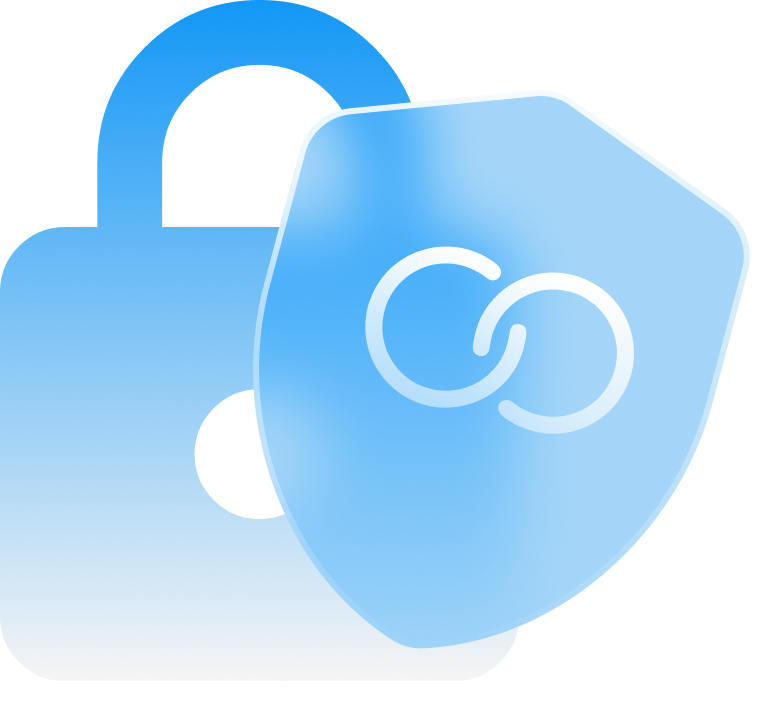
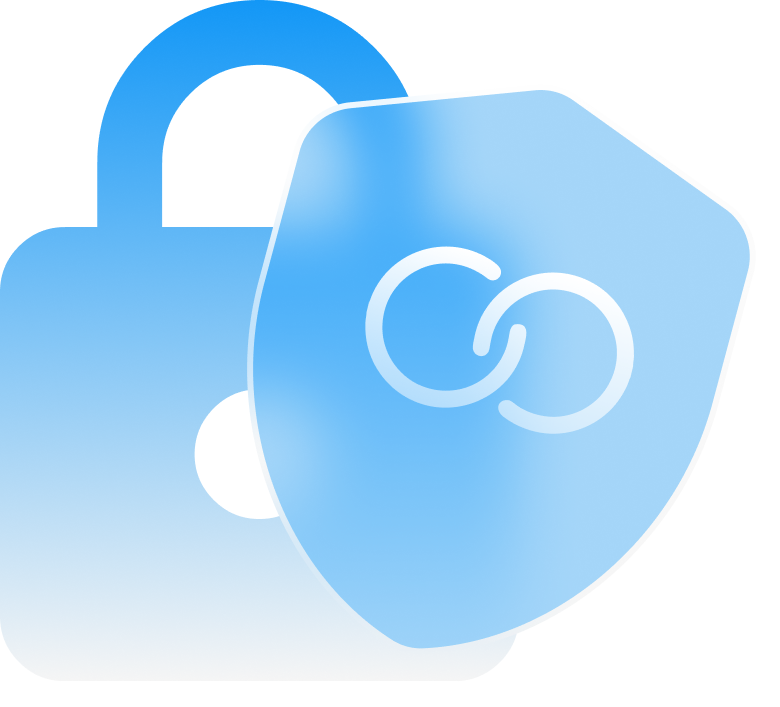
Switch uniquely-yours to new PNG version

diff --git a/index.html b/index.html
@@ -913,7 +913,7 @@ img { display: block; max-width: 100%; }
 
 <!-- FEATURES GRID -->
 <div class="features-grid" id="features-grid">
-  <div class="fcard reveal"><div class="fcard-top"><h3>Uniquely Yours</h3><p>No two Duos are ever the same. Customize your Duo's name, avatar, behavior, skills, personality.</p></div><div class="fcard-vis" style="align-items:center;padding:0;"><img src="assets/uniquely-yours.svg" alt="Unique avatar characters" style="width:100%;"></div></div>
+  <div class="fcard reveal"><div class="fcard-top"><h3>Uniquely Yours</h3><p>No two Duos are ever the same. Customize your Duo's name, avatar, behavior, skills, personality.</p></div><div class="fcard-vis" style="align-items:center;padding:0;"><img src="assets/uniquely-yours-new.png" alt="Unique avatar characters" style="width:100%;"></div></div>
   <div class="fcard reveal rd1"><div class="fcard-top"><h3>Uses Human Tools</h3><p>Your Duo uses the same tools you do to get things done: Websites, Apps, Desktop Programs, Credit Cards</p></div><div class="fcard-vis"><img src="assets/human-tools.svg" alt="App icons grid"></div></div>
   <div class="fcard reveal rd2"><div class="fcard-top"><h3>Proactive, Not Reactive</h3><p>Your Duo doesn't wait for explicit instructions on every task. It'll always think about how it can help and take action.</p></div><div class="fcard-vis" style="align-items:center;"><img src="assets/proactive-not-reactive.svg" alt="Proactive AI illustration" style="width:80%;"></div></div>
   <div class="fcard reveal"><div class="fcard-top"><h3>Understands You Deeply</h3><p>The more you share with your Duo, the more it understands you and the more it becomes useful. Always be in control of what you share with your Duo.</p></div><div class="fcard-vis"><img src="assets/understands-you-deeply.png" alt="Understands you illustration" style="width:75%;"></div></div>
